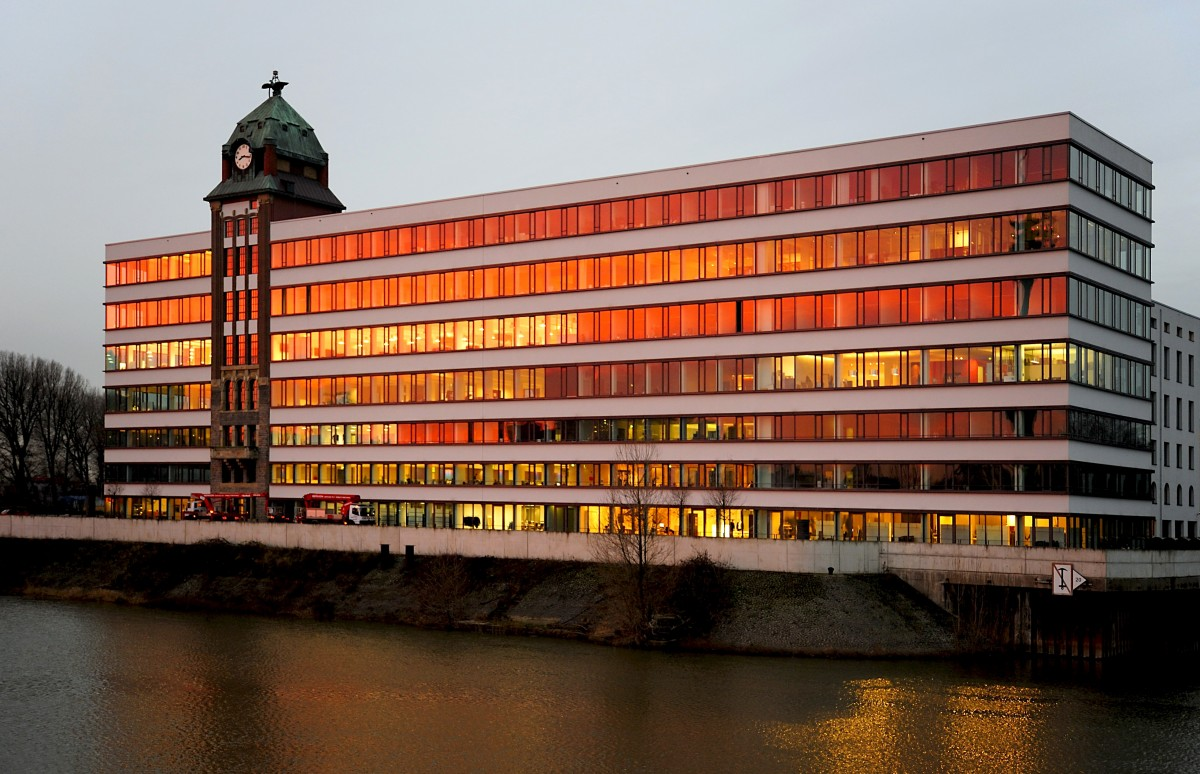
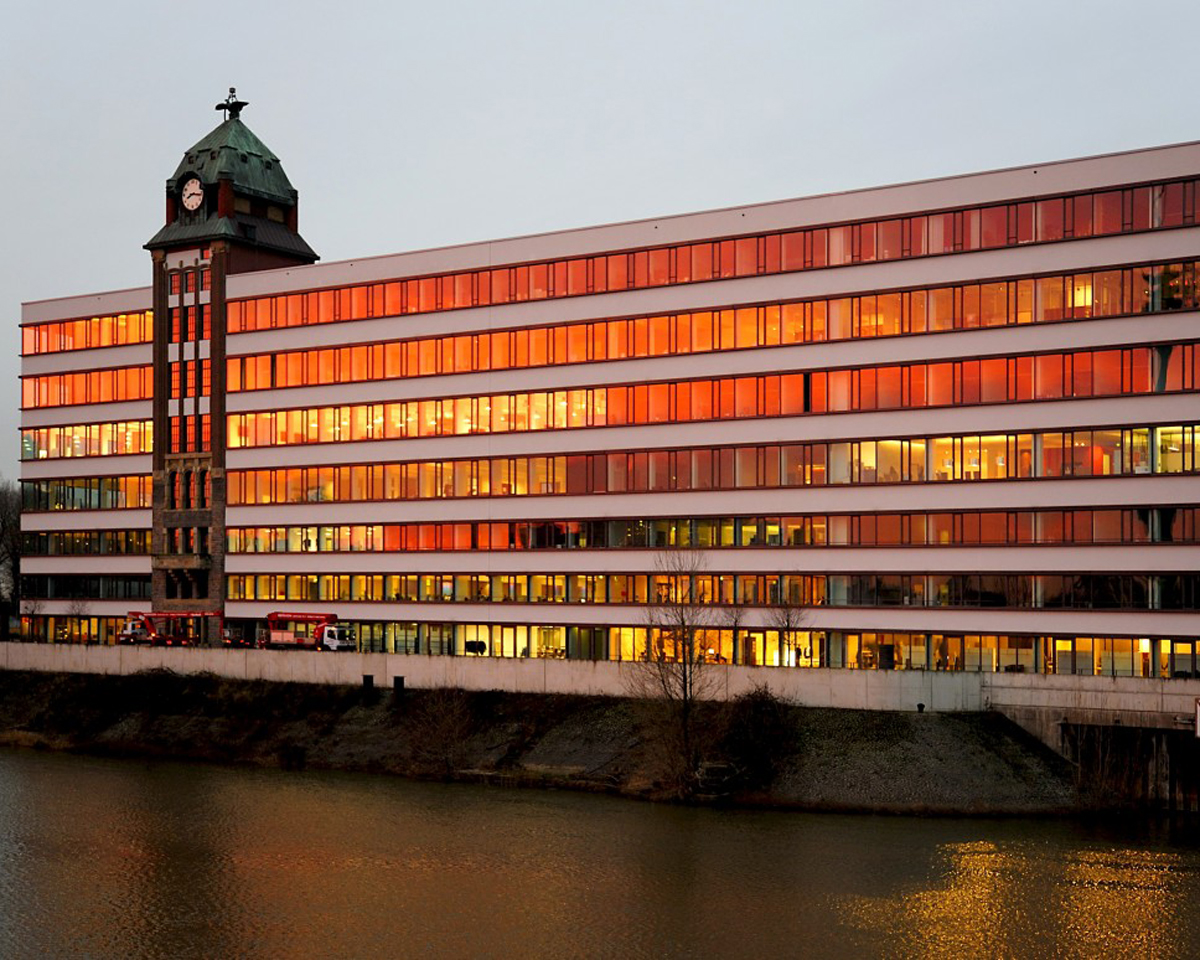
学校での修正反映
画像を4:5, width: 1200pxに設定

diff --git a/www/function/gammaGallery/modernizr.custom.70736.js b/www/function/gammaGallery/modernizr.custom.70736.js
@@ -1,0 +1,4 @@
+/* Modernizr 2.6.2 (Custom Build) | MIT & BSD
+ * Build: http://modernizr.com/download/#-csstransitions-touch-shiv-cssclasses-prefixed-teststyles-testprop-testallprops-prefixes-domprefixes-load
+ */
+;window.Modernizr=function(a,b,c){function z(a){j.cssText=a}function A(a,b){return z(m.join(a+";")+(b||""))}function B(a,b){return typeof a===b}function C(a,b){return!!~(""+a).indexOf(b)}function D(a,b){for(var d in a){var e=a[d];if(!C(e,"-")&&j[e]!==c)return b=="pfx"?e:!0}return!1}function E(a,b,d){for(var e in a){var f=b[a[e]];if(f!==c)return d===!1?a[e]:B(f,"function")?f.bind(d||b):f}return!1}function F(a,b,c){var d=a.charAt(0).toUpperCase()+a.slice(1),e=(a+" "+o.join(d+" ")+d).split(" ");return B(b,"string")||B(b,"undefined")?D(e,b):(e=(a+" "+p.join(d+" ")+d).split(" "),E(e,b,c))}var d="2.6.2",e={},f=!0,g=b.documentElement,h="modernizr",i=b.createElement(h),j=i.style,k,l={}.toString,m=" -webkit- -moz- -o- -ms- ".split(" "),n="Webkit Moz O ms",o=n.split(" "),p=n.toLowerCase().split(" "),q={},r={},s={},t=[],u=t.slice,v,w=function(a,c,d,e){var f,i,j,k,l=b.createElement("div"),m=b.body,n=m||b.createElement("body");if(parseInt(d,10))while(d--)j=b.createElement("div"),j.id=e?e[d]:h+(d+1),l.appendChild(j);return f=["&#173;",'<style id="s',h,'">',a,"</style>"].join(""),l.id=h,(m?l:n).innerHTML+=f,n.appendChild(l),m||(n.style.background="",n.style.overflow="hidden",k=g.style.overflow,g.style.overflow="hidden",g.appendChild(n)),i=c(l,a),m?l.parentNode.removeChild(l):(n.parentNode.removeChild(n),g.style.overflow=k),!!i},x={}.hasOwnProperty,y;!B(x,"undefined")&&!B(x.call,"undefined")?y=function(a,b){return x.call(a,b)}:y=function(a,b){return b in a&&B(a.constructor.prototype[b],"undefined")},Function.prototype.bind||(Function.prototype.bind=function(b){var c=this;if(typeof c!="function")throw new TypeError;var d=u.call(arguments,1),e=function(){if(this instanceof e){var a=function(){};a.prototype=c.prototype;var f=new a,g=c.apply(f,d.concat(u.call(arguments)));return Object(g)===g?g:f}return c.apply(b,d.concat(u.call(arguments)))};return e}),q.touch=function(){var c;return"ontouchstart"in a||a.DocumentTouch&&b instanceof DocumentTouch?c=!0:w(["@media (",m.join("touch-enabled),("),h,")","{#modernizr{top:9px;position:absolute}}"].join(""),function(a){c=a.offsetTop===9}),c},q.csstransitions=function(){return F("transition")};for(var G in q)y(q,G)&&(v=G.toLowerCase(),e[v]=q[G](),t.push((e[v]?"":"no-")+v));return e.addTest=function(a,b){if(typeof a=="object")for(var d in a)y(a,d)&&e.addTest(d,a[d]);else{a=a.toLowerCase();if(e[a]!==c)return e;b=typeof b=="function"?b():b,typeof f!="undefined"&&f&&(g.className+=" "+(b?"":"no-")+a),e[a]=b}return e},z(""),i=k=null,function(a,b){function k(a,b){var c=a.createElement("p"),d=a.getElementsByTagName("head")[0]||a.documentElement;return c.innerHTML="x<style>"+b+"</style>",d.insertBefore(c.lastChild,d.firstChild)}function l(){var a=r.elements;return typeof a=="string"?a.split(" "):a}function m(a){var b=i[a[g]];return b||(b={},h++,a[g]=h,i[h]=b),b}function n(a,c,f){c||(c=b);if(j)return c.createElement(a);f||(f=m(c));var g;return f.cache[a]?g=f.cache[a].cloneNode():e.test(a)?g=(f.cache[a]=f.createElem(a)).cloneNode():g=f.createElem(a),g.canHaveChildren&&!d.test(a)?f.frag.appendChild(g):g}function o(a,c){a||(a=b);if(j)return a.createDocumentFragment();c=c||m(a);var d=c.frag.cloneNode(),e=0,f=l(),g=f.length;for(;e<g;e++)d.createElement(f[e]);return d}function p(a,b){b.cache||(b.cache={},b.createElem=a.createElement,b.createFrag=a.createDocumentFragment,b.frag=b.createFrag()),a.createElement=function(c){return r.shivMethods?n(c,a,b):b.createElem(c)},a.createDocumentFragment=Function("h,f","return function(){var n=f.cloneNode(),c=n.createElement;h.shivMethods&&("+l().join().replace(/\w+/g,function(a){return b.createElem(a),b.frag.createElement(a),'c("'+a+'")'})+");return n}")(r,b.frag)}function q(a){a||(a=b);var c=m(a);return r.shivCSS&&!f&&!c.hasCSS&&(c.hasCSS=!!k(a,"article,aside,figcaption,figure,footer,header,hgroup,nav,section{display:block}mark{background:#FF0;color:#000}")),j||p(a,c),a}var c=a.html5||{},d=/^<|^(?:button|map|select|textarea|object|iframe|option|optgroup)$/i,e=/^(?:a|b|code|div|fieldset|h1|h2|h3|h4|h5|h6|i|label|li|ol|p|q|span|strong|style|table|tbody|td|th|tr|ul)$/i,f,g="_html5shiv",h=0,i={},j;(function(){try{var a=b.createElement("a");a.innerHTML="<xyz></xyz>",f="hidden"in a,j=a.childNodes.length==1||function(){b.createElement("a");var a=b.createDocumentFragment();return typeof a.cloneNode=="undefined"||typeof a.createDocumentFragment=="undefined"||typeof a.createElement=="undefined"}()}catch(c){f=!0,j=!0}})();var r={elements:c.elements||"abbr article aside audio bdi canvas data datalist details figcaption figure footer header hgroup mark meter nav output progress section summary time video",shivCSS:c.shivCSS!==!1,supportsUnknownElements:j,shivMethods:c.shivMethods!==!1,type:"default",shivDocument:q,createElement:n,createDocumentFragment:o};a.html5=r,q(b)}(this,b),e._version=d,e._prefixes=m,e._domPrefixes=p,e._cssomPrefixes=o,e.testProp=function(a){return D([a])},e.testAllProps=F,e.testStyles=w,e.prefixed=function(a,b,c){return b?F(a,b,c):F(a,"pfx")},g.className=g.className.replace(/(^|\s)no-js(\s|$)/,"$1$2")+(f?" js "+t.join(" "):""),e}(this,this.document),function(a,b,c){function d(a){return"[object Function]"==o.call(a)}function e(a){return"string"==typeof a}function f(){}function g(a){return!a||"loaded"==a||"complete"==a||"uninitialized"==a}function h(){var a=p.shift();q=1,a?a.t?m(function(){("c"==a.t?B.injectCss:B.injectJs)(a.s,0,a.a,a.x,a.e,1)},0):(a(),h()):q=0}function i(a,c,d,e,f,i,j){function k(b){if(!o&&g(l.readyState)&&(u.r=o=1,!q&&h(),l.onload=l.onreadystatechange=null,b)){"img"!=a&&m(function(){t.removeChild(l)},50);for(var d in y[c])y[c].hasOwnProperty(d)&&y[c][d].onload()}}var j=j||B.errorTimeout,l=b.createElement(a),o=0,r=0,u={t:d,s:c,e:f,a:i,x:j};1===y[c]&&(r=1,y[c]=[]),"object"==a?l.data=c:(l.src=c,l.type=a),l.width=l.height="0",l.onerror=l.onload=l.onreadystatechange=function(){k.call(this,r)},p.splice(e,0,u),"img"!=a&&(r||2===y[c]?(t.insertBefore(l,s?null:n),m(k,j)):y[c].push(l))}function j(a,b,c,d,f){return q=0,b=b||"j",e(a)?i("c"==b?v:u,a,b,this.i++,c,d,f):(p.splice(this.i++,0,a),1==p.length&&h()),this}function k(){var a=B;return a.loader={load:j,i:0},a}var l=b.documentElement,m=a.setTimeout,n=b.getElementsByTagName("script")[0],o={}.toString,p=[],q=0,r="MozAppearance"in l.style,s=r&&!!b.createRange().compareNode,t=s?l:n.parentNode,l=a.opera&&"[object Opera]"==o.call(a.opera),l=!!b.attachEvent&&!l,u=r?"object":l?"script":"img",v=l?"script":u,w=Array.isArray||function(a){return"[object Array]"==o.call(a)},x=[],y={},z={timeout:function(a,b){return b.length&&(a.timeout=b[0]),a}},A,B;B=function(a){function b(a){var a=a.split("!"),b=x.length,c=a.pop(),d=a.length,c={url:c,origUrl:c,prefixes:a},e,f,g;for(f=0;f<d;f++)g=a[f].split("="),(e=z[g.shift()])&&(c=e(c,g));for(f=0;f<b;f++)c=x[f](c);return c}function g(a,e,f,g,h){var i=b(a),j=i.autoCallback;i.url.split(".").pop().split("?").shift(),i.bypass||(e&&(e=d(e)?e:e[a]||e[g]||e[a.split("/").pop().split("?")[0]]),i.instead?i.instead(a,e,f,g,h):(y[i.url]?i.noexec=!0:y[i.url]=1,f.load(i.url,i.forceCSS||!i.forceJS&&"css"==i.url.split(".").pop().split("?").shift()?"c":c,i.noexec,i.attrs,i.timeout),(d(e)||d(j))&&f.load(function(){k(),e&&e(i.origUrl,h,g),j&&j(i.origUrl,h,g),y[i.url]=2})))}function h(a,b){function c(a,c){if(a){if(e(a))c||(j=function(){var a=[].slice.call(arguments);k.apply(this,a),l()}),g(a,j,b,0,h);else if(Object(a)===a)for(n in m=function(){var b=0,c;for(c in a)a.hasOwnProperty(c)&&b++;return b}(),a)a.hasOwnProperty(n)&&(!c&&!--m&&(d(j)?j=function(){var a=[].slice.call(arguments);k.apply(this,a),l()}:j[n]=function(a){return function(){var b=[].slice.call(arguments);a&&a.apply(this,b),l()}}(k[n])),g(a[n],j,b,n,h))}else!c&&l()}var h=!!a.test,i=a.load||a.both,j=a.callback||f,k=j,l=a.complete||f,m,n;c(h?a.yep:a.nope,!!i),i&&c(i)}var i,j,l=this.yepnope.loader;if(e(a))g(a,0,l,0);else if(w(a))for(i=0;i<a.length;i++)j=a[i],e(j)?g(j,0,l,0):w(j)?B(j):Object(j)===j&&h(j,l);else Object(a)===a&&h(a,l)},B.addPrefix=function(a,b){z[a]=b},B.addFilter=function(a){x.push(a)},B.errorTimeout=1e4,null==b.readyState&&b.addEventListener&&(b.readyState="loading",b.addEventListener("DOMContentLoaded",A=function(){b.removeEventListener("DOMContentLoaded",A,0),b.readyState="complete"},0)),a.yepnope=k(),a.yepnope.executeStack=h,a.yepnope.injectJs=function(a,c,d,e,i,j){var k=b.createElement("script"),l,o,e=e||B.errorTimeout;k.src=a;for(o in d)k.setAttribute(o,d[o]);c=j?h:c||f,k.onreadystatechange=k.onload=function(){!l&&g(k.readyState)&&(l=1,c(),k.onload=k.onreadystatechange=null)},m(function(){l||(l=1,c(1))},e),i?k.onload():n.parentNode.insertBefore(k,n)},a.yepnope.injectCss=function(a,c,d,e,g,i){var e=b.createElement("link"),j,c=i?h:c||f;e.href=a,e.rel="stylesheet",e.type="text/css";for(j in d)e.setAttribute(j,d[j]);g||(n.parentNode.insertBefore(e,n),m(c,0))}}(this,document),Modernizr.load=function(){yepnope.apply(window,[].slice.call(arguments,0))};

diff --git a/www/function/gammaGallery/noJS.css b/www/function/gammaGallery/noJS.css
@@ -1,0 +1,3 @@
+.gamma-loading {
+	background-image: none;
+}

diff --git a/www/css/portfolio.css b/www/css/portfolio.css
@@ -1,0 +1,4 @@
+main {
+	margin: auto 10px;
+
+}
